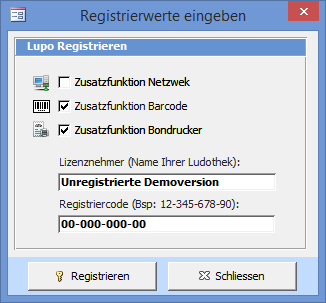
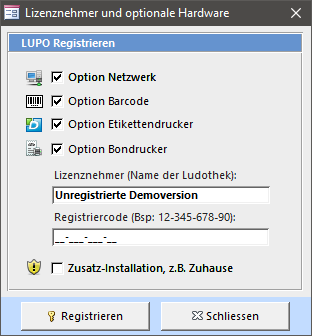
update registration pasge

diff --git a/user/pages/09.einstellungen/05.lupo-registrieren/docs.de.md b/user/pages/09.einstellungen/05.lupo-registrieren/docs.de.md
@@ -6,8 +6,10 @@ taxonomy:
 visible: true
 ---
 
-Die Registrierungsinformationen können Sie mit dem Übersichtsbefehl **Einstellungen → Registrierung** anzeigen.
+Die Lizenzdaten können mit dem Übersichtsbefehl **Einstellungen → LUPO registrieren** angezeigt werden.
 
 ![lupo-registration](../../images/lupo-registration.png)
 
-Aktivieren Sie die von Ihnen bestellten Programmoptionen (Netzwerk, Barcode, Bondrucker) und tragen Sie den Namen Ihrer Ludothek sowie den Registriercode in die vorgesehenen Textfelder ein. Achten Sie auf die genaue Schreibweise. Drücken Sie auf Registrieren um die Demoversion-Einschränkungen aufzuheben.
+Aktivieren Sie die genutzten Programmoptionen (Netzwerk, Barcode, Etikettendrucker, Bondrucker) und tragen Sie den Namen Ihrer Ludothek sowie den Registriercode in die vorgesehenen Textfelder ein. Achten Sie auf die genaue Schreibweise. Drücken Sie auf <span class="btn-lupo">Registrieren</span> um die Demoversion-Einschränkungen aufzuheben.
+
+LUPO darf zum Üben oder um von Zuhause aus Daten zu erfassen, auf einem Computer zu Hause installiert werden. Für solche Zusatz-Installationen muss die unterste Checkbox aktiviert werden.
